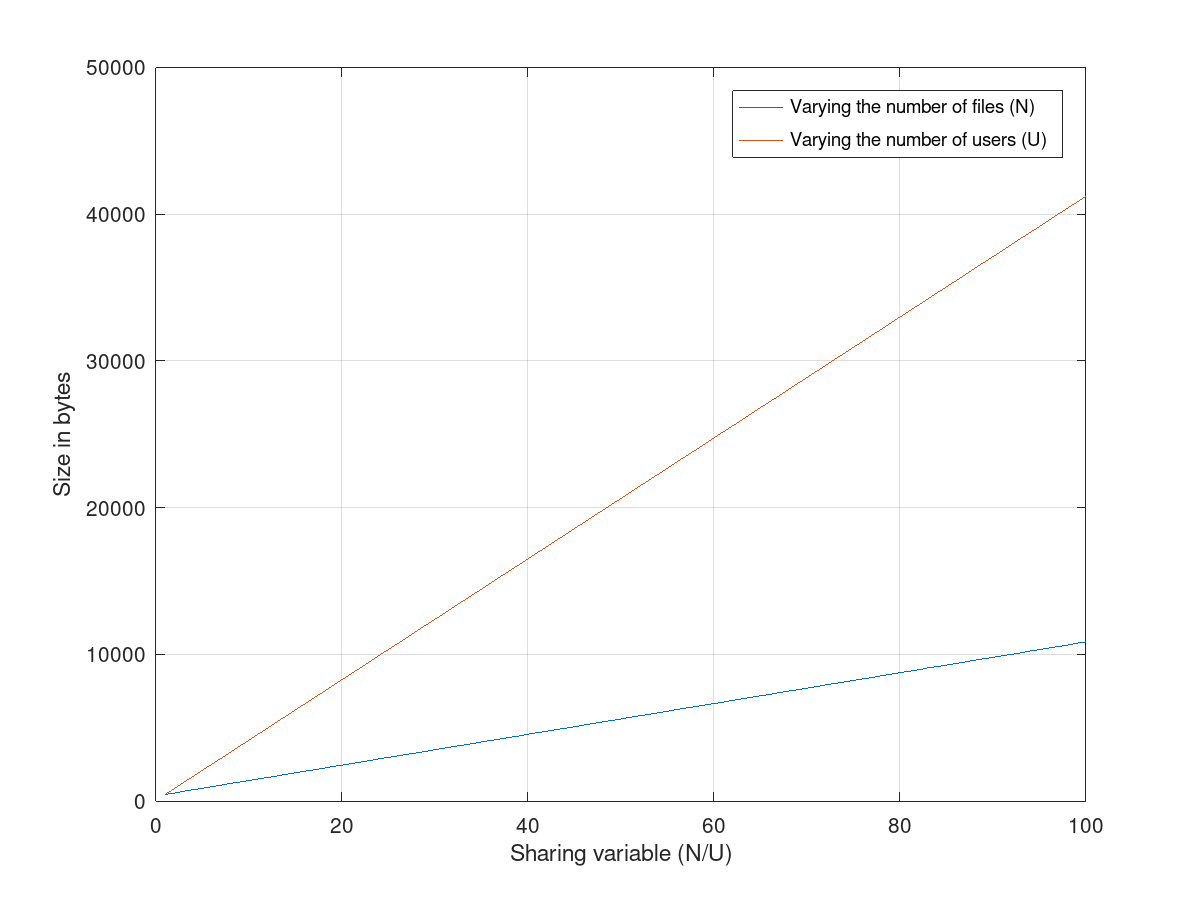
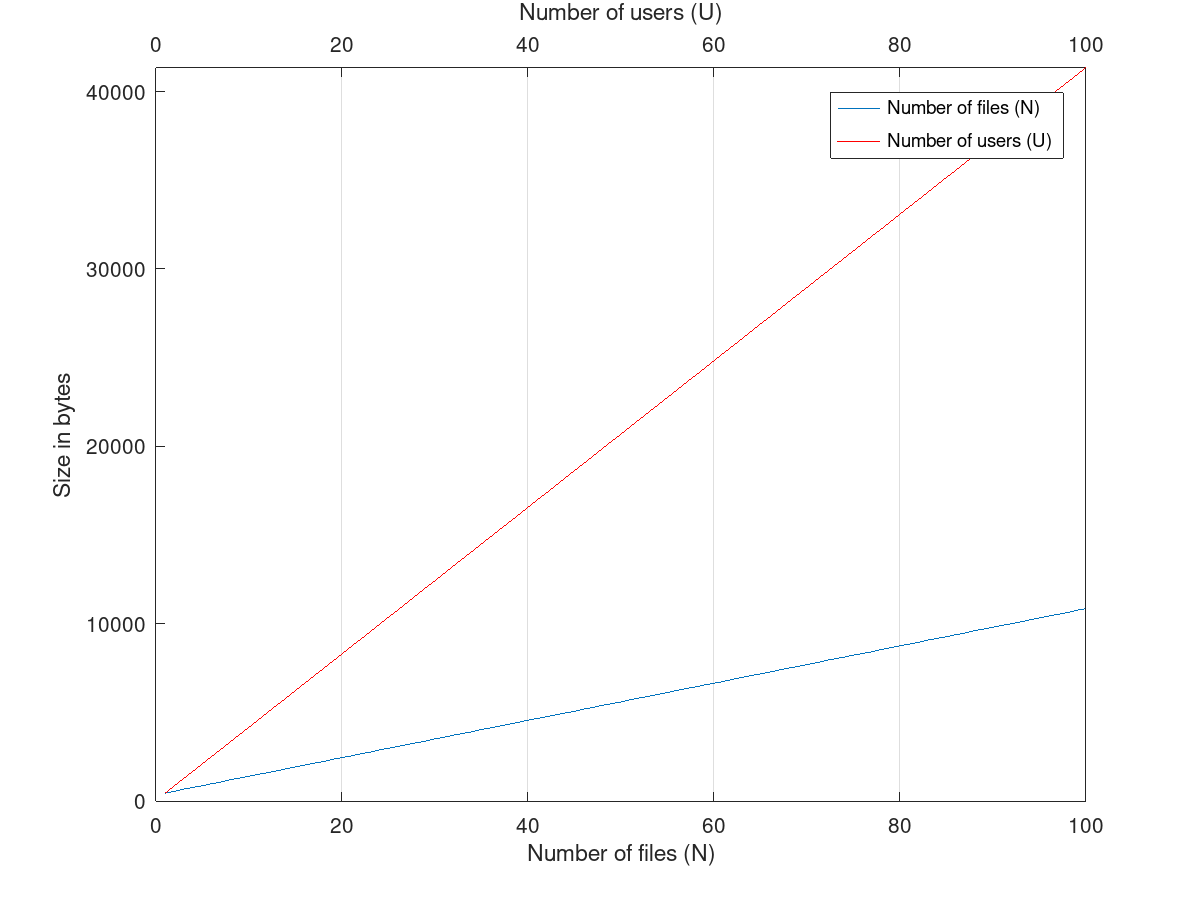
updated plots

diff --git a/test_plot_rev.m b/test_plot_rev.m
@@ -3,44 +3,16 @@ figure;
 rev_sizes = csvread("./benchmarks/test_sharing_revocation_speed_vs_size.csv");
 rev_users = csvread("./benchmarks/test_sharing_revocation_speed_vs_U.csv");
 
-% Data
-xdata1 = rev_sizes(:,1);
-ydata1 = rev_sizes(:,2);
-xdata2 = rev_users(:,1);
-ydata2 = rev_users(:,2);
+xdata1 = rev_sizes(1:50,1);
+ydata1 = rev_sizes(1:50,2);
+xdata2 = rev_users(1:50,1);
+ydata2 = rev_users(1:50,2);
 
-% Create the first axes
-hax1 = axes();
-
-% First plot
-hplot1 = line(xdata1, ydata1);
-    
-% Create a transparent axes on top of the first one with it's xaxis on top
-% and no ytick marks (or labels)
-hax2 = axes('Position', get(hax1, 'Position'), ...  % Copy position
-            'XAxisLocation', 'top', ...             % Put the x axis on top
-            'YAxisLocation', 'right', ...           % Doesn't really matter
-            'Color', 'none', ...                    % Make it transparent
-            'YTick', []);                           % Don't show markers on y axis
-            
-% Plot data with a different x-range here
-hplot2 = line(xdata2, ydata2, 'Color', 'r', 'Parent', hax2);
-
-% Link the y limits and position together
-linkprop([hax1, hax2], {'ylim', 'Position'});
-
-maxy = max([max(ydata1), max(ydata2)]);
-ylim([0, maxy]);
-
-% Draw some labels
-xlabel(hax1, 'Size of the revoked file in bytes')
-xlabel(hax2, 'Number of users the file is shared with')
-ylabel(hax1, 'Revocation time in milliseconds')
-legend([hplot1, hplot2], ...
-       {'Size of the revoked file in bytes', ...
-        'Number of users the file is shared with'})
-grid on;
+test_plot_2(xdata1, ydata1, xdata2, ydata2, ...
+            'Size of the revoked file in bytes', ...
+            'Number of users the file is shared with', ...
+            'Revocation time in milliseconds')
 
 saveas(gca, "./benchmarks/test_sharing_revocation.png");
 
-waitfor(gca);
+%% waitfor(p);

diff --git a/test_plot_speed.m b/test_plot_speed.m
@@ -1,39 +1,30 @@
 figure;
-speed_sharing    = csvread("./benchmarks/test_sharing_speed.csv");
-speed_no_sharing = csvread("./benchmarks/test_no_sharing_speed.csv");
 
-subplot(2, 1, 1);
-d = speed_sharing;
-p = plot(d(:,1), d(:,2));
-hold on;
-d = speed_no_sharing;
-p = plot(d(:,1), d(:,2));
-grid on;
-xlabel("Size in bytes");
-ylabel("Encryption time in milliseconds");
-legend("Sharing enabled",
-       "Sharing disabled");
+range = 1:200;
+speed_sharing    = csvread("./benchmarks/test_sharing_speed.csv")(range,:);
+speed_no_sharing = csvread("./benchmarks/test_no_sharing_speed.csv")(range,:);
 
-subplot(2, 1, 2);
-d = speed_sharing;
-p = plot(d(:,1), d(:,3));
-hold on;
-d = speed_no_sharing;
-p = plot(d(:,1), d(:,3));
-grid on;
-xlabel("Size in bytes");
-ylabel("Decryption time in milliseconds");
-legend("Sharing enabled",
-       "Sharing disabled");
-
-saveas(p, "./benchmarks/test_sharing_speed.png");
-
+%% Key generation
 diff = [];
 for i = 1:size(speed_sharing)(1)
   diff = [diff, abs(speed_sharing(i, 2) - speed_no_sharing(i, 2))];
 end
-
 speed_difference_avg = mean(diff)
 speed_difference_var = var(diff)
 
-waitfor(p);
+d = speed_no_sharing;
+d(:,1) /= 1e+6;
+p = plot(d(:,1), d(:,2));
+hold on;
+p = plot(d(:,1), d(:,3));
+hold on;
+p = plot(d(:,1), diff);
+grid on;
+ylim([0, max(d(:,2))])
+xlabel("Size in kilobytes");
+ylabel("Time in milliseconds");
+legend("Encryption",
+       "Decryption",
+       "Key generation");
+
+saveas(p, "./benchmarks/test_sharing_speed.png");

diff --git a/test_plot_2.m b/test_plot_2.m
@@ -1,0 +1,34 @@
+function test_plot_2(xdata1, ydata1, xdata2, ydata2, xlabel1, xlabel2, ylabel0)
+  %% Create the first axes
+  hax1 = axes();
+
+  %% First plot
+  hplot1 = line(xdata1, ydata1);
+    
+  %% Create a transparent axes on top of the first one with it's xaxis on top
+  %% and no ytick marks (or labels)
+  hax2 = axes('Position', get(hax1, 'Position'), ...  % Copy position
+              'XAxisLocation', 'top', ...             % Put the x axis on top
+              'YAxisLocation', 'right', ...           % Doesn't really matter
+              'Color', 'none', ...                    % Make it transparent
+              'YTick', []);                           % Don't show markers on y axis
+            
+  %% Plot data with a different x-range here
+  hplot2 = line(xdata2, ydata2, 'Color', 'r', 'Parent', hax2);
+
+  %% Link the y limits and position together
+  linkprop([hax1, hax2], {'ylim', 'Position'});
+
+  %% Set limits
+  maxy = max([max(ydata1), max(ydata2)]);
+  ylim([0, maxy]);
+  xlim(hax1, [0, max(xdata1)])
+  xlim(hax2, [0, max(xdata2)])
+
+  %% Draw some labels
+  xlabel(hax1, xlabel1)
+  xlabel(hax2, xlabel2)
+  ylabel(hax1, ylabel0)
+  legend([hplot1, hplot2], {xlabel1, xlabel2})
+  grid on;
+end

diff --git a/test_plot_storage.m b/test_plot_storage.m
@@ -1,15 +1,16 @@
 figure;
-d = csvread("./benchmarks/test_sharing_N_vs_cost.csv");
-p = plot(d(:,1), d(:,2));
-hold on;
-d = csvread("./benchmarks/test_sharing_U_vs_cost.csv");
-p = plot(d(:,1), d(:,2));
 
-legend("Varying the number of files (N)",
-       "Varying the number of users (U)")
-xlabel("Sharing variable (N/U)");
-ylabel("Size in bytes");
-grid on;
-saveas(p, "./benchmarks/test_sharing_cost.png");
+vs_N = csvread("./benchmarks/test_sharing_N_vs_cost.csv");
+vs_U = csvread("./benchmarks/test_sharing_U_vs_cost.csv");
 
-waitfor(p);
+xdata1 = vs_N(:,1);
+ydata1 = vs_N(:,2);
+xdata2 = vs_U(:,1);
+ydata2 = vs_U(:,2);
+
+test_plot_2(xdata1, ydata1, xdata2, ydata2, ...
+            'Number of files (N)', ...
+            'Number of users (U)', ...
+            'Size in bytes')
+
+saveas(gca, "./benchmarks/test_sharing_cost.png");
